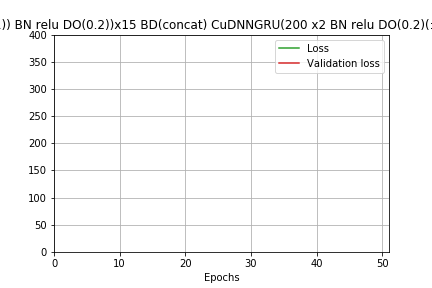
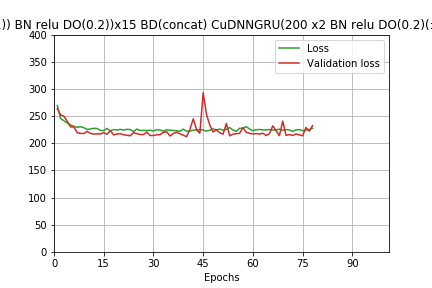
Conv2D fixed, attempted to train

diff --git a/models.py b/models.py
@@ -168,9 +168,9 @@ class RNNModel(ModelBuilder):
                             print(layer_i, x.shape, z.shape)
                             if layer_i % (self.cnn_config.cnn_layers // 5) == 0 and layer_i > 1:
                             # if layer_i > 1:
-                                z = concatenate([z, x], axis=-2)
-                            else:
                                 z = x
+                            else:
+                                z = concatenate([z, x], axis=-1)
                         else:
                             z = concatenate([z, x], axis=-1)
                     x = conv(z)
@@ -208,16 +208,19 @@ class RNNModel(ModelBuilder):
                         dil = dil // (-self.cnn_config.dilation)
                     if self.cnn_config.dilation > 1:
                         dil *= self.cnn_config.dilation
-                if self.cnn_config.kernel_2d is not None and (layer_i+1) % (self.cnn_config.cnn_layers // 5) == 0:
+                if self.cnn_config.kernel_2d is not None:
+                # if self.cnn_config.kernel_2d is not None and (layer_i+1) % (self.cnn_config.cnn_layers // 5) == 0:
                     if self.cnn_config.cnn_bn:
                         x = BatchNormalization()(x)
                     # if not self.cnn_config.cnn_activation_before_bn_do:
                     x = Activation(self.cnn_config.cnn_activation, name=self.activation + "C" + str(layer_i))(x)
-                    if self.cnn_config.cnn_dense:
-                        pool = MaxPooling2D(pool_size=(1, 4))
-                    else:
+                    if not self.cnn_config.cnn_dense:
                         pool = MaxPooling2D(pool_size=(1, 2))
-                    x = pool(x)
+                        x = pool(x)
+                    elif (layer_i+1) % (self.cnn_config.cnn_layers // 5) == 0:
+                    # elif layer_i == self.cnn_config.cnn_layers - 1:
+                        pool = MaxPooling2D(pool_size=(1, 2))
+                        x = pool(x)
                     if self.cnn_config.cnn_dropout_rate > 0.01:
                         x = Dropout(rate=self.cnn_config.cnn_dropout_rate)(x)
 
